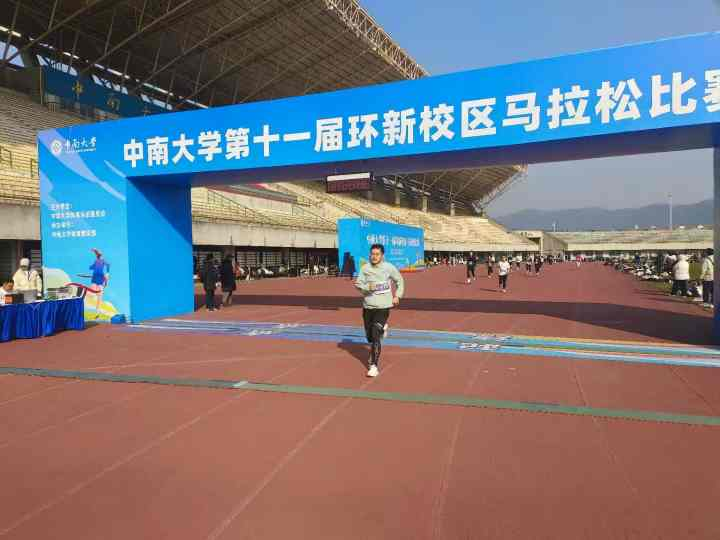
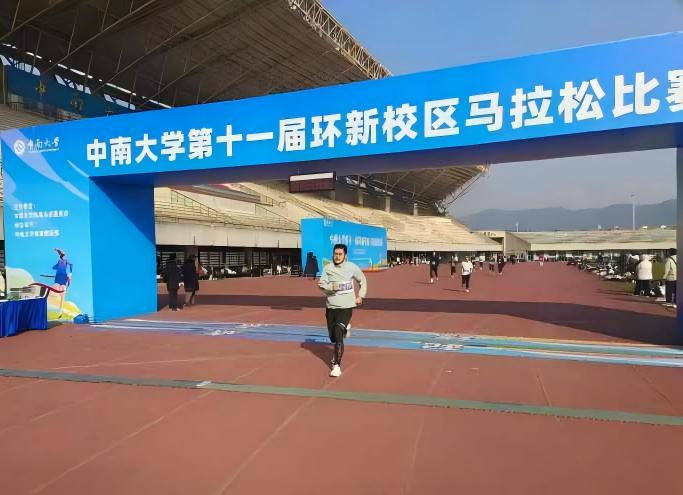
.

diff --git a/static/css/main.css b/static/css/main.css
@@ -16,9 +16,9 @@
        说明：图片本体大小不改，只扩容器高度，避免“下半截被裁”。
        你如果后续换更高的图片，可继续把 --show-img-max-h 调大。
     */
-    --show-img-max-h: 460px;   /* 主图最大高度（不改变图片，只是允许它完整显示） */
+    --show-img-max-h: 320px;   /* 主图最大高度（不改变图片，只是允许它完整显示） */
     --show-top: 10px;          /* 图片离 track 顶部的距离 */
-    --show-extra: 120px;       /* 额外留白：取“主图最大高度”级别，等效把容器高度翻倍 */
+    --show-extra: 40px;       /* 额外留白：取“主图最大高度”级别，等效把容器高度翻倍 */
     --show-shift-x: 260px;     /* 左右预告图水平偏移 */
     --show-scale-side: .82;    /* 左右预告图缩放比例 */
     --show-side-opacity: .55;  /* 左右预告图透明度 */
@@ -206,8 +206,8 @@ section .main-body{
 /* 响应式：窄屏略缩减上限高度与左右偏移 */
 @media (max-width: 991px){
   :root{
-    --show-img-max-h: 360px;
-    --show-extra: 90px;   /* 同步翻倍扩容 */
+    --show-img-max-h: 260px;
+    --show-extra: 30px;   /* 同步翻倍扩容 */
     --show-shift-x: 140px; /* 窄屏降低左右偏移 */
   }
 }
